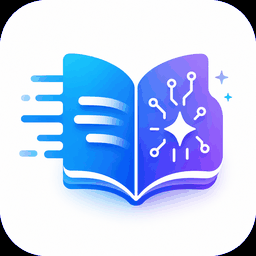
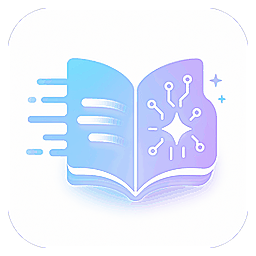
fix(ui): icon背景透明化 + 结果卡片长书名溢出修复
- icon去除黑色背景，保留主体，USM锐化增强清晰度
- CardHeader/CardTitle/CardDescription 添加 min-w-0 + truncate 防止长文本x向溢出

diff --git a/src/components/sections/ResultsSection.tsx b/src/components/sections/ResultsSection.tsx
@@ -51,8 +51,8 @@ export function ResultsSection({
 
   return (
     <Card>
-      <CardHeader>
-        <CardTitle>
+      <CardHeader className="overflow-hidden">
+        <CardTitle className="min-w-0">
           <div className="truncate">
             {processingMode === 'summary' ? (
               <><BookOpen className="h-5 w-5 inline-block mr-2" />{t('results.summaryTitle', { title: bookSummary?.title })}</>
@@ -63,8 +63,8 @@ export function ResultsSection({
             )}
           </div>
         </CardTitle>
-        <div className="flex items-center justify-between -mt-1">
-          <CardDescription>
+        <div className="flex items-center justify-between -mt-1 min-w-0">
+          <CardDescription className="truncate min-w-0">
             {t('results.author', { author: bookSummary?.author || bookMindMap?.author })} | {t('results.chapterCount', { count: bookSummary?.chapters.length || bookMindMap?.chapters.length })}
           </CardDescription>
           <div className="flex items-center gap-1.5 shrink-0">
